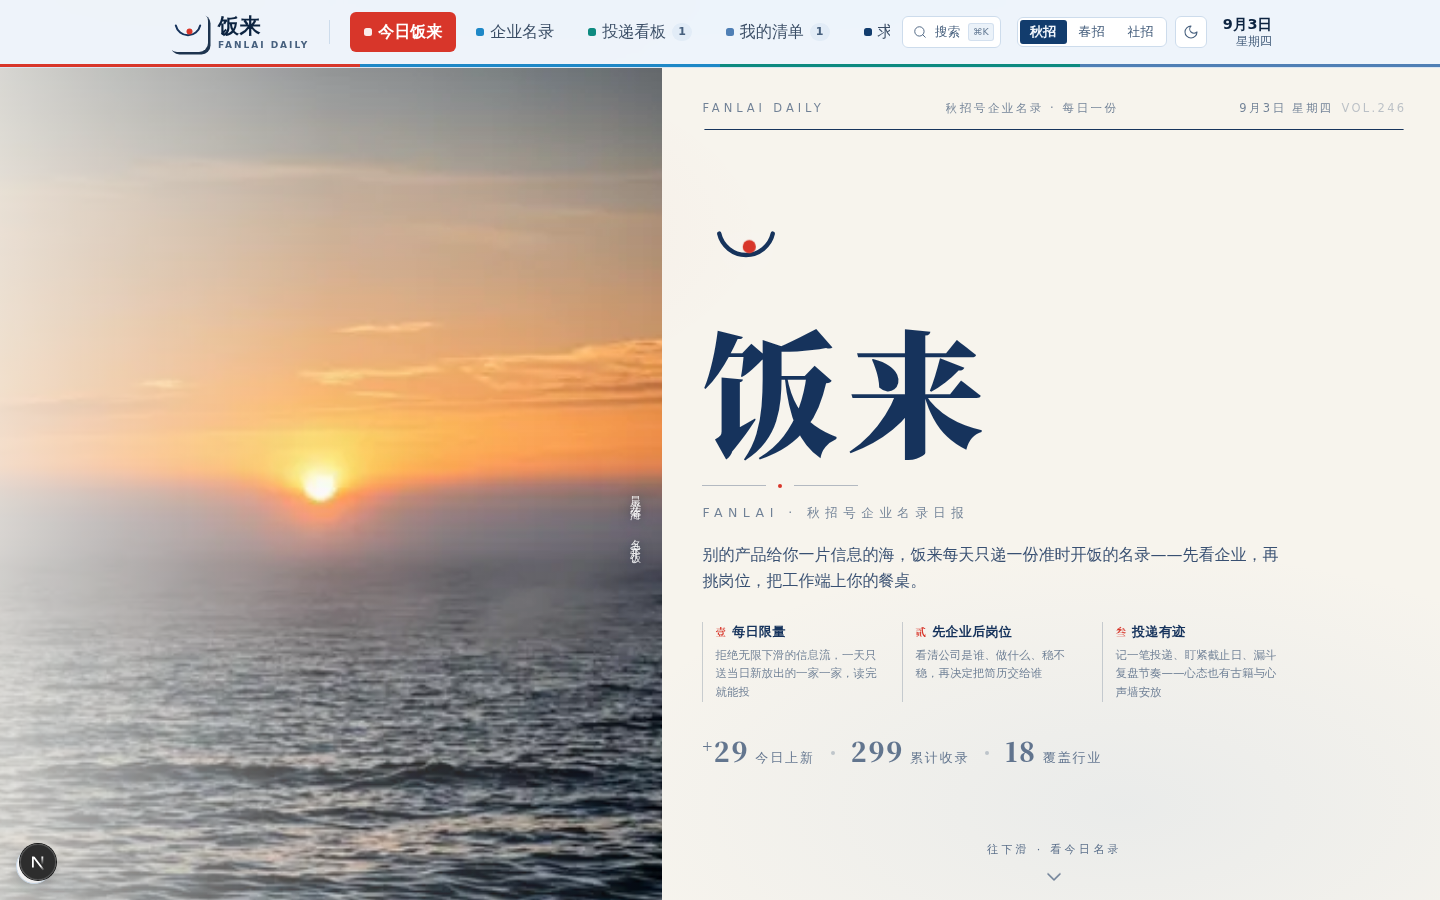
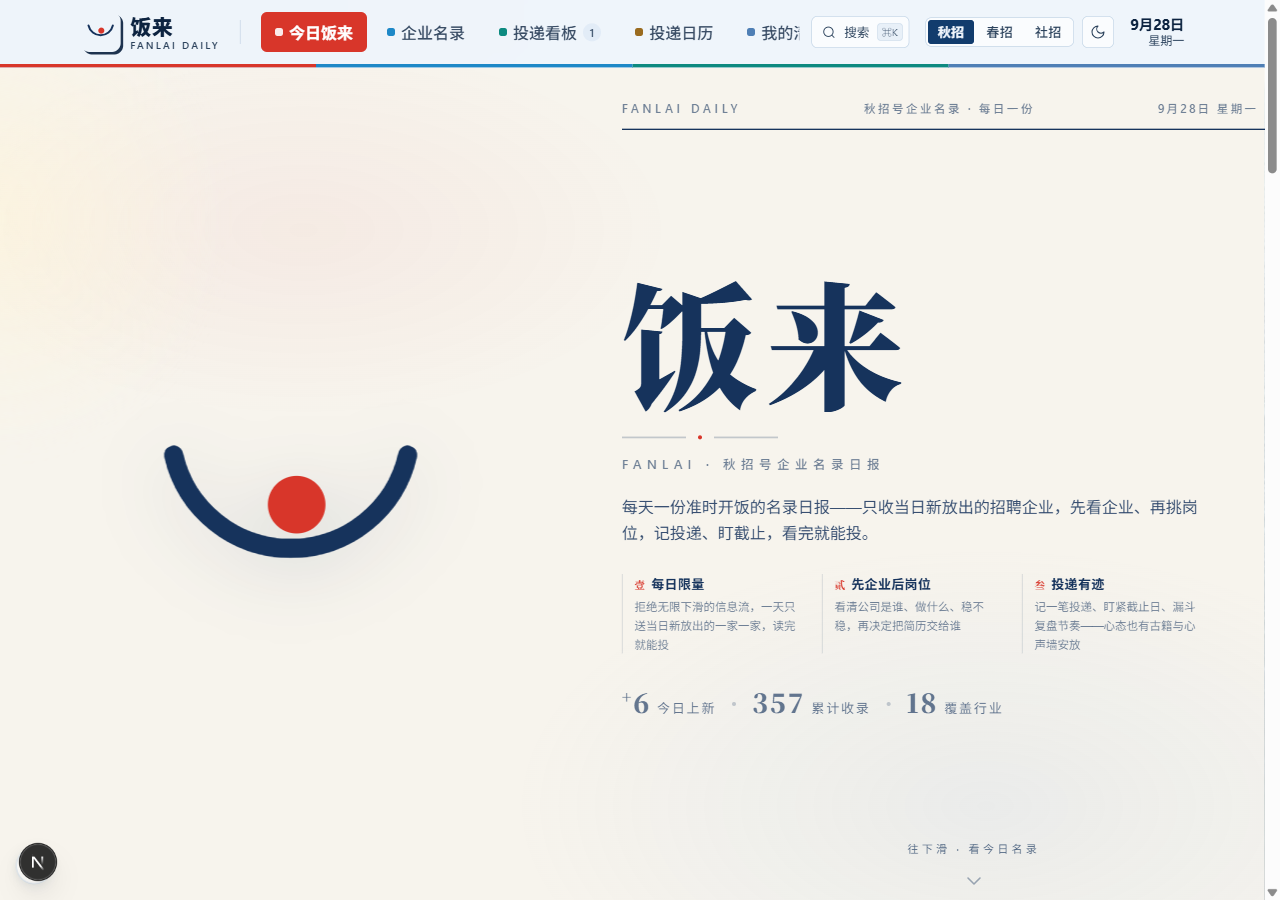
docs: rewrite README with product story; refresh screenshots to latest version

diff --git a/README.md b/README.md
@@ -1,23 +1,35 @@
 # 饭来 FanLai
 
+> 找工作就是找一碗饭。
+
 ![License: MIT](https://img.shields.io/badge/License-MIT-blue.svg) ![Next.js](https://img.shields.io/badge/Next.js-16-black) ![React](https://img.shields.io/badge/React-19-61dafb) ![TypeScript](https://img.shields.io/badge/TypeScript-5-3178c6)
 
-> 每天一份准时开饭的秋招名录——先看企业，再挑岗位，投递有迹，截止不慌。
+## 为什么是饭来
 
-饭来是一个本地优先的秋招求职管理应用：**每日一份「先企业后岗位」的招聘名录**，配套企业名录、投递看板、截止日历与数据可信度分层，内置 **18 个行业 300+ 家企业**的真实整理数据，开箱即用。
+秋招和春招，大概是学生时代最漫长的一场考试。
+
+就业的大环境并不友好，它推着每一个人不得不主动出击、去打破信息壁垒；而「人人都在冲刺」的氛围，又反过来加剧了焦虑和内卷。信息不是太少，而是太碎、太吵——你刷得到无数篇经验帖，却很难看到一份干净、诚实、按日排好的企业名录。
+
+饭来就是在这样的心情里做出来的小产品：把信息老老实实罗列出来，先看企业、再挑岗位，记下每一次投递、盯住每一个截止日。它尤其想帮到那些**职业规划还没有完全定型、愿意多尝试不同渠道、想多了解不同行业和企业**的人——不必一次就想清楚一辈子，先把今天的三家投了再说。
+
+找工作就是找一碗饭。主动出击的人，值得准时开饭。
 
 ![饭来首页](docs/screenshots/01-cover.png)
 
-## 功能
+## 它能帮你做什么
 
-| 模块 | 说明 |
+| 模块 | 一句话 |
 |---|---|
-| **今日饭来** | 每日一份当日新放出的招聘企业，限量整理，看完就能投 |
-| **企业名录** | 行业筛选 / 关键词搜索，先看清企业再决定投递 |
-| **投递看板** | 拖拽流转（意向 → 投递 → 笔试 → 面试 → Offer），支持 CSV 导出 |
-| **投递日历** | 网申截止按日排布；机器探测官网可达性 + 每日 3 家亲核打卡，可信度分层标注 |
+| **今日饭来** | 每天只送一份当日新放出的招聘企业，限量整理，看完就能投 |
+| **企业名录** | 357 家、18 个行业，行业筛选 + 关键词搜索，先看清企业再决定投递 |
+| **投递看板** | 拖一张卡就是一次流转：意向 → 投递 → 笔试 → 面试 → Offer，支持 CSV 导出 |
+| **投递日历** | 网申截止按日排布，先截止的先办；每天三家最该亲核的，点开官网、回来打卡 |
+
+![企业名录](docs/screenshots/02-directory.png)
 
 ![投递看板](docs/screenshots/03-tracker.png)
+
+![投递日历](docs/screenshots/04-deadlines.png)
 
 ## 快速开始
 
@@ -29,19 +41,19 @@ cp .env.example .env   # Windows: copy .env.example .env
 npm run dev
 ```
 
-打开 http://localhost:3000 即可。数据库零配置（SQLite，仓库自带演示数据）。
+打开 http://localhost:3000。数据库零配置（SQLite，仓库自带演示数据，开箱即用）。
 
-Windows 也可直接双击 `启动饭来.bat`。
+Windows 也可以直接双击 `启动饭来.bat`。
+
+## 几个诚实的原则
+
+- **机器只做机器能保证的事。** 官网可达性自动探测可以告诉你「这个域名活着」，但没有任何渠道能保证「截止日期准确」。所以每天只给你三家最该亲核的，点开官网看一眼、回来打个卡——打卡过的情报，才是你自己的情报。
+- **每条情报都有出处。** 来源分层标注（官网来源 > 平台转载 > 转发渠道 > 已亲核），缺的如实写「暂缺」，不装准确。
+- **数据留在你自己手里。** 本地 SQLite，无账号、无上传，求职轨迹属于你自己。
 
 ## 技术栈
 
 Next.js 16（App Router / Turbopack）· React 19 · TypeScript · Tailwind CSS v4 · shadcn/ui · Prisma + SQLite
-
-## 核心设计
-
-- **数据可信度分层**：每条截止情报标注来源层级（官网来源 > 平台转载 > 转发渠道 > 已亲核），缺失情报如实展示「暂缺」——不装准确，比精确更重要
-- **机器核查 + 人工打卡闭环**：机器自动探测招聘官网可达性；每天推荐 3 家最该亲核的企业，「去官网 → 我已核对」打卡后情报升级为最高可信层级
-- **本地优先**：数据完全存在本地 SQLite，无账号、无上传，求职轨迹属于你自己
 
 ## 项目结构
 
@@ -59,9 +71,8 @@ FanLai/
 
 ## 说明
 
-- `db/custom.db` 为真实整理的演示数据（企业情报、官网探测结果、示例投递记录）
+- `db/custom.db` 内置真实整理的演示数据（企业情报、官网探测结果、示例投递记录）
 - 每日名录的自动联网同步需要特定 SDK 环境，默认关闭；记录、核对、看板、日历等核心功能不受影响
-- 截止日期的机器探测只保证「官网可达」，不保证「日期准确」——这正是产品把「亲核打卡」设计为最高可信层级的原因
 
 ## License
 
